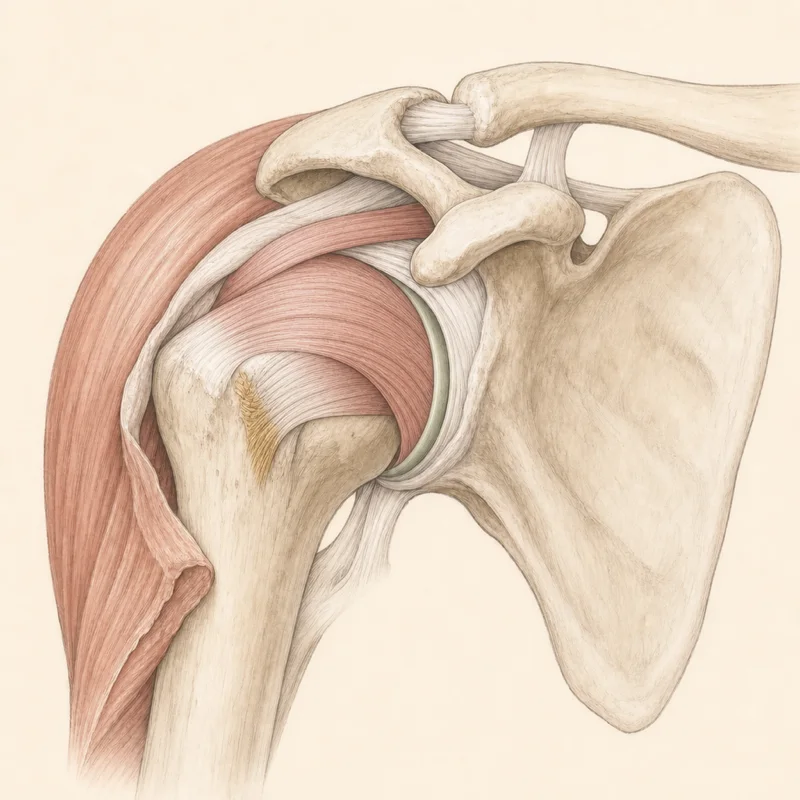
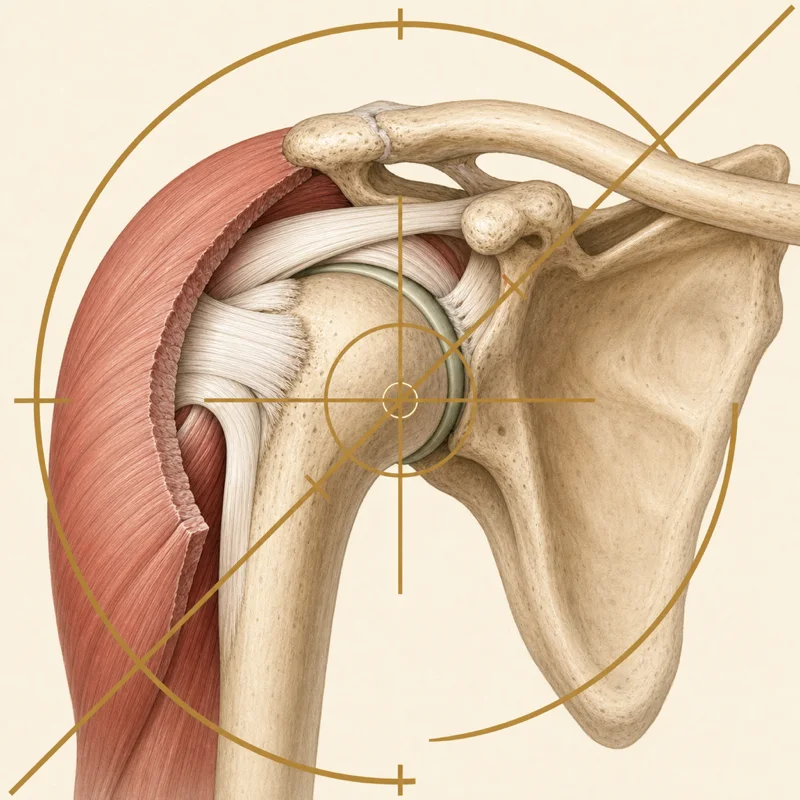
Swap region plates to the technical-plate style
Replaces the botanical set with accurate anatomy overlaid with gold
construction geometry. The geometry is chosen per region and marks
something real that is actually assessed, rather than repeating a motif:

  knee     tibiofemoral axis, mechanical axis, patellar tracking arc
  shoulder glenohumeral centre, scapular plane, arc of elevation
  hip      hip joint centres, femoral neck-shaft angle, load line
  foot     arch span, subtalar axis, load concentration marks
  spine    plumb line, segmental centres of rotation, lumbar curve
  elbow    flexion axis, carrying angle, wrist arc

Generated twice. The first pass drew the geometry as hairlines and it
disappeared completely at the 144px display size, leaving plain
anatomical illustrations without the identity the style depends on.
Regenerated with frame-spanning guides, large arcs and generous
crosshairs; verified legible at both 144px and 96px.

Also carries a colour correction: the pilot ran pale, so bone, muscle
and cartilage are warmer and better differentiated.

564KB for all six. All six tabs verified loading with no failed requests.

Note: overwriting these in place means the Next image optimizer serves
stale bytes until .next/cache/images is cleared.

diff --git a/components/treatments/TreatmentsList.tsx b/components/treatments/TreatmentsList.tsx
@@ -3,6 +3,7 @@
 import React, { useState } from 'react';
 import { motion } from 'framer-motion';
 import Link from 'next/link';
+import Image from 'next/image';
 import { getAllTreatments } from '@/lib/treatments-data';
 import { ArrowRightIcon, MagnifyingGlassIcon } from '@heroicons/react/24/outline';
 
@@ -67,7 +68,19 @@ export default function TreatmentsList() {
                 viewport={{ once: true, margin: "-100px" }}
               >
                 <Link href={`/treatments/${treatment.id}`}>
-                  <div className="bg-white rounded-2xl p-7 h-full border-2 border-gray-100 hover:border-[#B08D57]/30 hover:shadow-xl transition-all duration-300 group cursor-pointer flex flex-col">
+                  <div className="bg-white rounded-2xl p-7 h-full border-2 border-gray-100 hover:border-[#B08D57]/30 hover:shadow-xl transition-all duration-300 group cursor-pointer flex flex-col overflow-hidden">
+                    {/* Mechanism plate, bled to the card edges. object-contain on the
+                    plate's own cream ground means nothing is cropped and the
+                    letterboxing is invisible. */}
+                    <div className="relative -mx-7 -mt-7 mb-6 aspect-[4/3] overflow-hidden bg-[#F4EFE4]">
+                      <Image
+                    src={`/images/treatments/${treatment.id}.webp`}
+                    alt=""
+                    fill
+                    sizes="(min-width: 1024px) 380px, (min-width: 768px) 45vw, 90vw"
+                    className="object-contain"
+                      />
+                    </div>
                     <h3 className="text-xl font-semibold text-slate-900 mb-3 group-hover:text-[#B08D57] transition-colors">
                       {treatment.name}
                     </h3>
@@ -127,7 +140,19 @@ export default function TreatmentsList() {
                             <div className="absolute inset-0 bg-gradient-to-br from-[#B08D57]/0 via-[#B08D57]/0 to-[#B08D57]/5 opacity-0 group-hover:opacity-100 transition-opacity duration-500" />
 
                             <div className="relative flex flex-col flex-grow">
-                              <h3 className="text-xl font-semibold text-slate-900 mb-3 group-hover:text-[#B08D57] transition-colors duration-300">
+                              {/* Mechanism plate, bled to the card edges. object-contain on the
+                                plate's own cream ground means nothing is cropped and the
+                                letterboxing is invisible. */}
+                            <div className="relative -mx-8 -mt-8 mb-6 aspect-[4/3] overflow-hidden bg-[#F4EFE4]">
+                              <Image
+                                src={`/images/treatments/${treatment.id}.webp`}
+                                alt=""
+                                fill
+                                sizes="(min-width: 1024px) 380px, (min-width: 768px) 45vw, 90vw"
+                                className="object-contain"
+                              />
+                            </div>
+                            <h3 className="text-xl font-semibold text-slate-900 mb-3 group-hover:text-[#B08D57] transition-colors duration-300">
                                 {treatment.name}
                               </h3>
                               <p className="text-gray-600 text-sm mb-6 line-clamp-2 leading-relaxed flex-grow">
